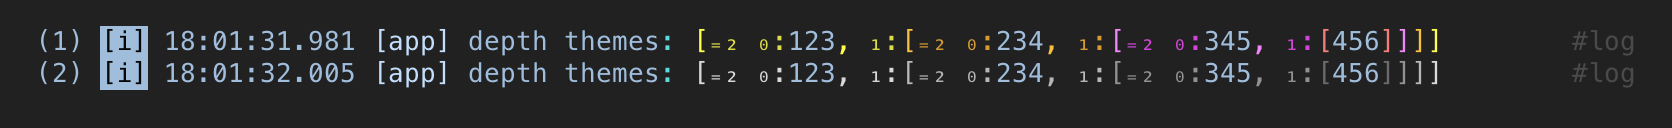
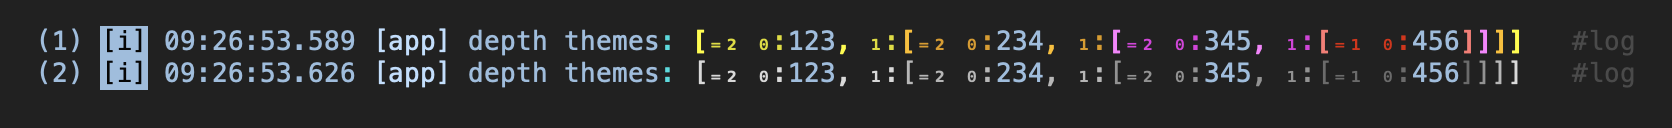
feat(example): cut themes into frames
Three frames, and two findings the pipeline surfaced on its first group
after the pilot.

themes_3 showed one log line; the file printed two. The second was a
noColors theme piped through ansiShowEscapeSequences — real, but no
README section ever showed it, and with the kitchen sink now living in
tool/ there is nowhere in this file for code that no picture claims. It
goes.

themes_2 came back with the innermost single-element list rendered as
[=1 0:456] where the committed picture has a bare [456]. Not a
regression: the `count > 1` special case left loggable.dart on
2026-07-24, and that picture was last updated on 2026-06-01, so the
README has been showing output almost two months stale. The new picture
is what the code does.

diff --git a/example/bin/readme_examples/themes.dart b/example/bin/readme_examples/themes.dart
@@ -1,18 +1,26 @@
-import 'package:ansi_escape_codes/extensions.dart';
+import 'package:example/readme_examples/frames.dart';
 import 'package:example/readme_examples/init_log.dart';
 import 'package:team_logger/team_logger.dart';
 
-void main() {
-  const person = {'firstName': 'John', 'lastName': 'Smith', 'age': 42};
+const _person = {'firstName': 'John', 'lastName': 'Smith', 'age': 42};
 
-  print('----- Color theme -----');
+final frames = <String, Frame>{
+  'themes_1': _colorTheme,
+  'themes_2': _depthThemes,
+  'themes_3': _noColorTheme,
+};
+
+void main(List<String> args) => runFrames(frames, args);
+
+/// Готовые палитры и своя, собранная из семени.
+void _colorTheme() {
   initLog();
-  log.i('color theme', data: person);
+  log.i('color theme', data: _person);
 
   initLog(
     theme: LogMainTheme.defaultActiveTheme.copyWith(info: LogThemeData.rgb122),
   );
-  log.i('color theme', data: person);
+  log.i('color theme', data: _person);
 
   initLog(
     theme: LogMainTheme.defaultActiveTheme.copyWith(
@@ -26,9 +34,11 @@ void main() {
       ),
     ),
   );
-  log.i('color theme', data: person);
+  log.i('color theme', data: _person);
+}
 
-  print('----- Depth themes -----');
+/// Раскраска скобок по глубине.
+void _depthThemes() {
   const deeplyNested = [
     123,
     [
@@ -83,15 +93,10 @@ void main() {
     ),
   );
   log.i('depth themes', data: deeplyNested);
+}
 
-  print('----- No color theme -----');
+/// Бесцветная тема и показ самих escape-кодов.
+void _noColorTheme() {
   initLog(theme: LogMainTheme.noColors);
-  log.d('no colors', data: person);
-
-  // No ANSI escape codes.
-  initLog(
-    theme: LogMainTheme.noColors,
-    output: (str) => print(str.ansiShowEscapeSequences()),
-  );
-  log.d('no colors', data: person);
+  log.d('no colors', data: _person);
 }
